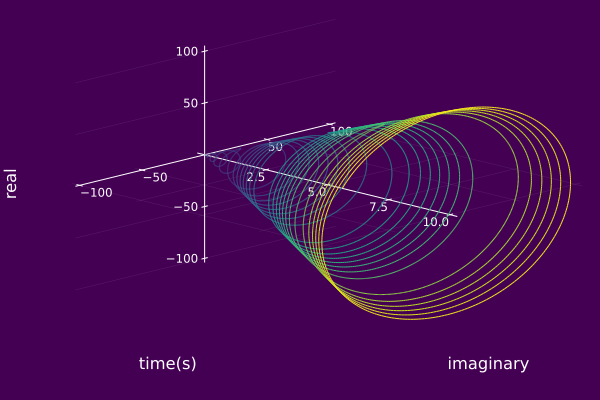
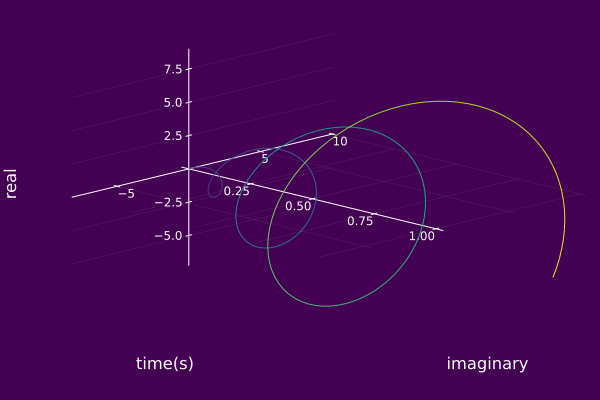
Fixed plot.md images

diff --git a/docs/src/recipes.md b/docs/src/recipes.md
@@ -32,6 +32,7 @@ The following is a list of some of the default parameters used in ISA plot recip
 | xguide           | "time(s)"     |
 | yguide           | "imag"        |
 | zguide           | "real"        |
+| ymirror          | true          |
 | background_color | cubeYF()[1]   |
 | foreground_color | :white        |
 | ymirror          | true          |
@@ -45,20 +46,19 @@ Below gives an example of setting a custom time-axis range.
 plot(ψ₀; timeaxis=0.0:0.001:10.0)
 ```
 ![](https://raw.githubusercontent.com/NMSU-ISA/ISA/master/docs/src/assets/costum0.png)
-[NEED TO FIX IMAGE ABOVE]
 
 ### Camera Position
 Below gives an example of setting a custom camera position.
 ```julia
-# change the time axis and camera angle
-plot(ψ₀; timeaxis=0.0:0.001:10.0, camera=(20,50))
+# change the camera angle
+plot(ψ₀, camera=(20,50))
 ```
 ![](https://raw.githubusercontent.com/NMSU-ISA/ISA/master/docs/src/assets/costum1.png)
 
 ### Labels
 Below is an example of modifying the axis label and location.
 ```julia
-plot(ψ₀; timeaxis=0.0:0.001:10.0, yguide="imaginary", ymirror=true)
+plot(ψ₀, yguide="imaginary", ymirror=false)
 ```
 ![](https://raw.githubusercontent.com/NMSU-ISA/ISA/master/docs/src/assets/costum2.png)
 
@@ -77,30 +77,28 @@ By default, the `plot()` function will show a 3D plot. However, the parameter `v
 
 An example of displaying the default 3D view associated with an `AMFMcomp` is given below.
 ```julia
-ψ₀ = AMFMcomp(t->t,t->25cos(t),0.0)
-plot(ψ₂, timeaxis=0.0:0.001:10.0)
+ψ₀ = AMFMcomp(t->10t,t->25cos(t),0.0)
+plot(ψ₀)
 ```
-![](https://raw.githubusercontent.com/NMSU-ISA/ISA/master/docs/src/assets/TRview.png)
+![](https://raw.githubusercontent.com/NMSU-ISA/ISA/master/docs/src/assets/default3d.png)
+
 An example of displaying the time-real plane associated with an `AMFMcomp` is given below.
 ```julia
-ψ₀ = AMFMcomp(t->t,t->25cos(t),0.0)
-plot(ψ₂, timeaxis=0.0:0.001:10.0,view="TR")
+plot(ψ₀,view="TR")
 ```
-![](https://raw.githubusercontent.com/NMSU-ISA/ISA/master/docs/src/assets/TRview.png)
+![](https://raw.githubusercontent.com/NMSU-ISA/ISA/master/docs/src/assets/TRview3d.png)
 
 An example of displaying the time-imaginary plane associated with an `AMFMcomp` is given below.
 ```julia
-ψ₀ = AMFMcomp(t->t,t->25cos(t),0.0)
-plot(ψ₂, timeaxis=0.0:0.001:10.0,view="TI")
+plot(ψ₀,view="TI")
 ```
-![](https://raw.githubusercontent.com/NMSU-ISA/ISA/master/docs/src/assets/TIview.png)
+![](https://raw.githubusercontent.com/NMSU-ISA/ISA/master/docs/src/assets/TIview3d.png)
 
 An example of displaying the real-imaginary plane associated with an `AMFMcomp` is given below.
 ```julia
-ψ₀ = AMFMcomp(t->t,t->25cos(t),0.0)
-plot(ψ₂, timeaxis=0.0:0.001:10.0,view="RI")
+plot(ψ₀, view="RI")
 ```
-![](https://raw.githubusercontent.com/NMSU-ISA/ISA/master/docs/src/assets/TIview.png)
+![](https://raw.githubusercontent.com/NMSU-ISA/ISA/master/docs/src/assets/RIview3d.png)
 
 
 ### Instantaneous Spectrum Views
@@ -114,23 +112,31 @@ plot(ψ₂, timeaxis=0.0:0.001:10.0,view="RI")
 
 An example of displaying the default 3D view associated with an `compSet` is given below.
 ```julia
-code
+𝐶₀ = AMFMtriplet(t->exp(-t^2),t->2.0,0.0)
+𝐶₁ = AMFMtriplet(t->1.0,t->10*t,0.1)
+𝐶₂ = AMFMtriplet(t->0.8*cos(2t),t->10 + 7.5*sin(t),π)
+𝑆 = compSet([𝐶₀,𝐶₁,𝐶₂])
+plot(𝑆)
 ```
+![](https://raw.githubusercontent.com/NMSU-ISA/ISA/master/docs/src/assets/defaultIS.png)
 
 An example of displaying the time-frequency plane associated with an `compSet` is given below.
 ```julia
-code
+plot(𝑆,view="TF")
 ```
+![](https://raw.githubusercontent.com/NMSU-ISA/ISA/master/docs/src/assets/TFviewIS.png)
 
 An example of displaying the time-real plane associated with an `compSet` is given below.
 ```julia
-code
+plot(𝑆,view="TR")
 ```
+![](https://raw.githubusercontent.com/NMSU-ISA/ISA/master/docs/src/assets/TRviewIS.png)
 
 An example of displaying the frequency-real plane associated with an `compSet` is given below.
 ```julia
-code
+plot(𝑆,view="FR")
 ```
+![](https://raw.githubusercontent.com/NMSU-ISA/ISA/master/docs/src/assets/FRviewIS.png)
 
 #### Real Projection
 Optionally, the real part of $z(t)$, the real superposition of the components
